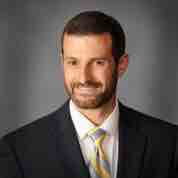
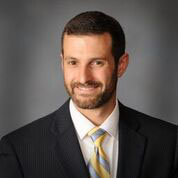
fixed photos

diff --git a/style.css b/style.css
@@ -311,6 +311,25 @@ img{
   padding-left: 20px;
 }
 
+.aboutfounders img{
+  display: block;
+  margin: 10px;
+}
+
+.founder1 img{
+  width: 165;
+  height:170;
+  padding-top: 20px;
+  padding-left: 20px;
+}
+
+.founder2 img{
+  width: 165;
+  height:170;
+  padding-top: 20px;
+  padding-left: 20px;
+}
+
 @media all and (min-width:600px){
 
 /*.menu-trigger {display: none; }*/
@@ -492,15 +511,15 @@ background: #dcd0c0;
 }
 
 .founder1 img{
-  width: 135;
-  height:140;
+  width: 165;
+  height:170;
   float: left;
   padding-top: 20px;
 }
 
 .founder2 img{
-  width: 135;
-  height:140;
+  width: 165;
+  height:170;
   float: left;
   padding-top: 20px;
 }
@@ -532,7 +551,7 @@ background: #dcd0c0;
 }
 
 .director-2 img {
-  width: 145px;
+  width: 185px;
   height: auto;
 }
 
@@ -572,7 +591,7 @@ background: #dcd0c0;
 }
 
 .advisor-5 img {
-  width: 165px;
+  width: 185px;
   height: auto;
 }
 
